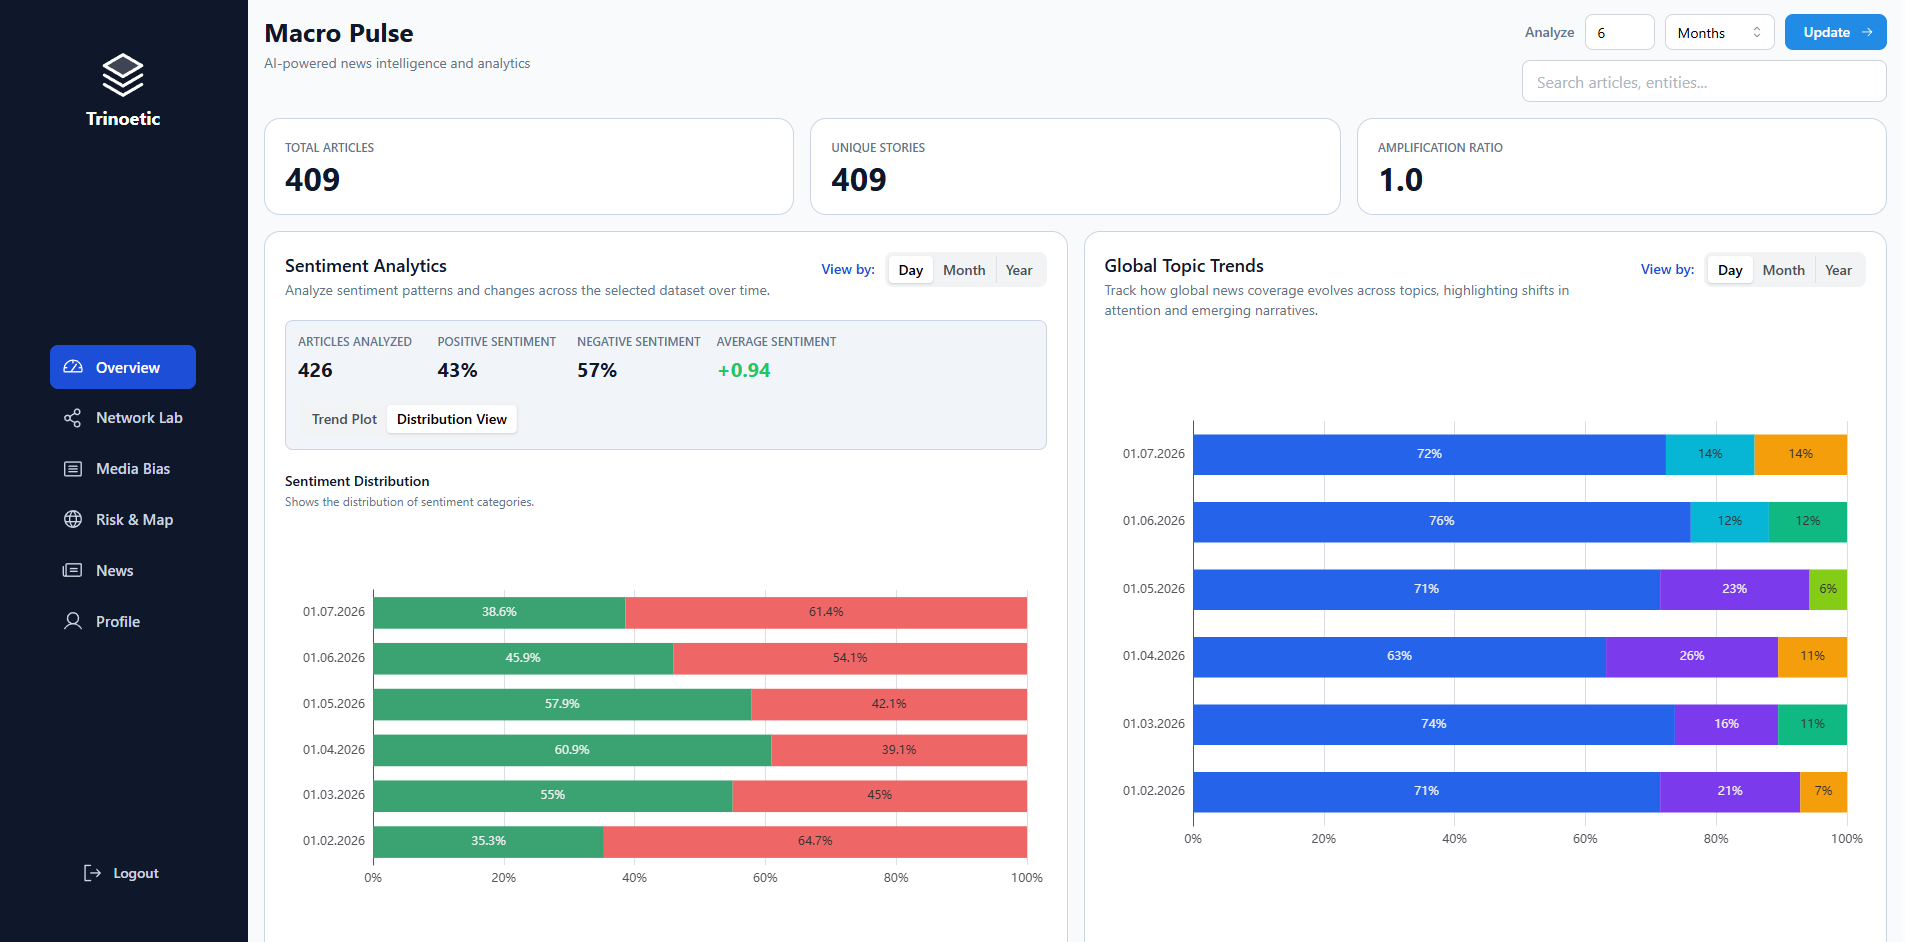
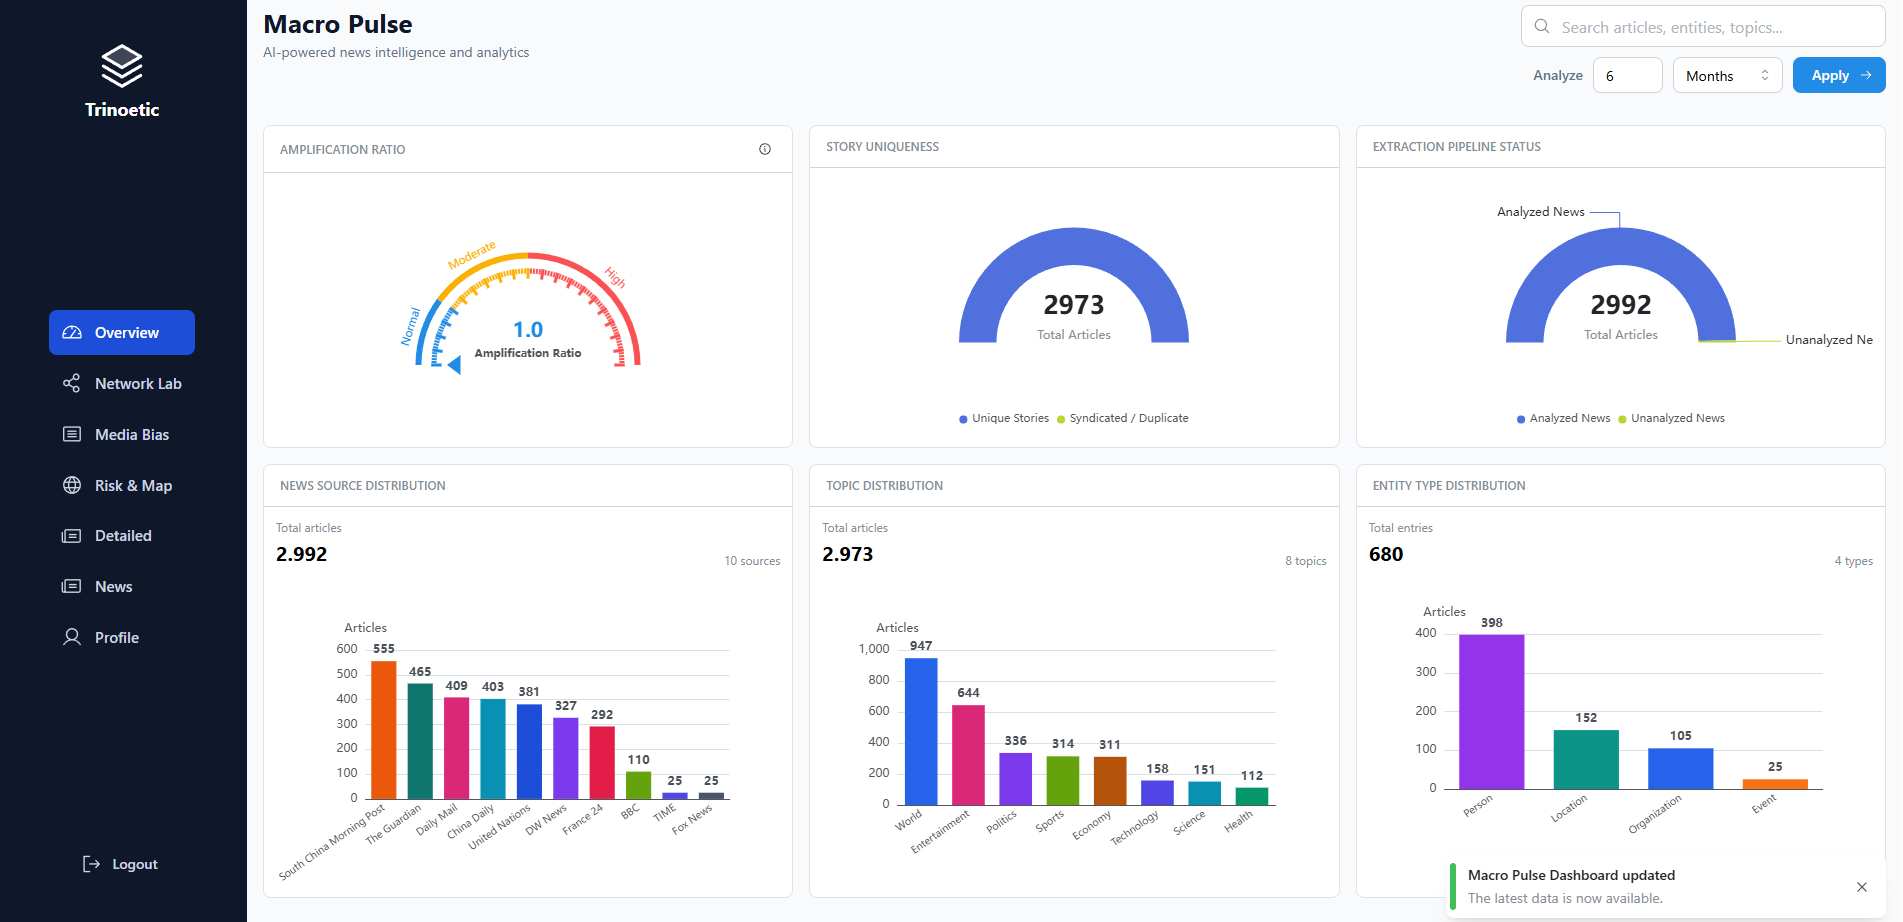
feat: added example images

diff --git a/README.md b/README.md
@@ -517,5 +517,6 @@ where sovereignty, international law, and humanitarian needs intersect.
 ```
 ## Examples
 ![Page_1](/images/Page_1.png)
-![Page_2 Relationship](/images/Page_2.png)
+![Page_2](/images/Page_2.png)
 ![Page_3](/images/Page_3.png)
+![Page_4](/images/Page_4.png)
